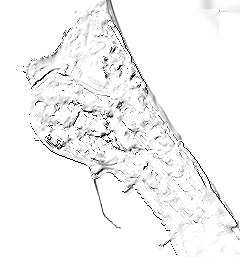
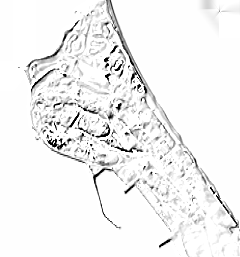
fix(display): regenerate venue output with the documented default; document the fourth boundary rule
Two loose ends the re-review and a determinism check turned up.

The committed display output had been generated with --constrain --mesh, while
ADR-0015 documents the constraint solver as opt-in. Anyone regenerating with
the documented default (venues:display --all --terrain) therefore got a diff
against committed data for no reason they could see. Regenerated with the
default, so what is committed is what the documented command produces. The
`constrained` block leaves the certification, correctly -- it was not run.

Verified while doing it: two consecutive runs produce byte-identical output
across all four venues -- visual specs, compiled styles, hillshade PNGs and
certification alike. That is the determinism the certification claims, checked
end to end rather than asserted.

The boundaries policy described the new terrain rule in prose but its enforced-
rule list still named only three. Added the fourth, so the list matches what
.dependency-cruiser.cjs actually enforces -- which is the whole point of a
scripts-over-instructions policy.

Claude-Session: https://claude.ai/code/session_01WVLScwyoWSJYCYQR77deLR

diff --git a/docs/agents/policies/venue-builder-lib-boundaries.md b/docs/agents/policies/venue-builder-lib-boundaries.md
@@ -51,7 +51,11 @@ Enforced in `.dependency-cruiser.cjs` (`npm run lint:boundaries`), not written d
 prose alone — per this repo's own scripts-over-instructions policy:
 
 - `lib/operators/` may never import `lib/agents/` or `lib/adapters/`.
-- `lib/adapters/` may never import `lib/agents/` or `lib/operators/`.
+- `lib/adapters/` may never import `lib/agents/`, `lib/operators/`, or `lib/terrain/`.
+- `lib/terrain/` may never import `lib/agents/`, `lib/operators/`, or the evidence
+  engine (`evidence.mjs` / `evidence-graph.mjs`). It reads `lib/adapters/` for a DEM
+  and nothing else — height is a Display input, never a claim about where a Place is
+  ([ADR-0015](../../adr/0015-terrain-in-display.md)).
 - A core `lib/*.mjs` file reaching into `agents/`, `operators/`, or `adapters/` must be
   one of the six files already doing so (`build-pipeline.mjs`, `venue-official-site.mjs`,
   `external-claims.mjs`, `external-research.mjs`, `venue-certify.mjs`,
